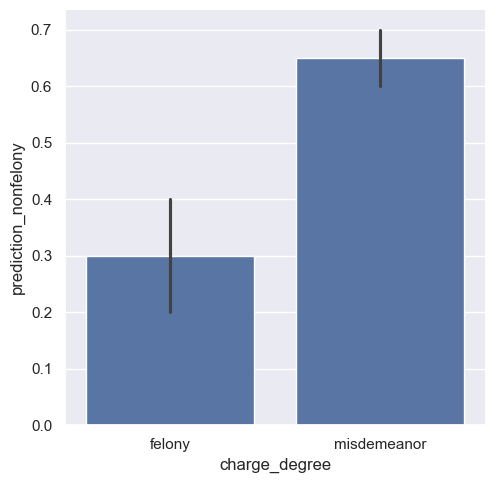
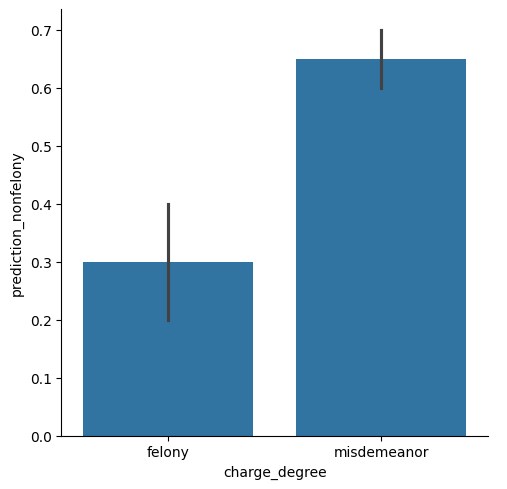
debug

diff --git a/src/part1_etl.py b/src/part1_etl.py
@@ -6,59 +6,80 @@ PART 1: ETL
 
 import pandas as pd
 
-def load_data():
-    # Load the datasets
-    pred_universe = pd.read_csv('./data/pred_universe.csv')
-    charge_counts = pd.read_csv('./data/charge_counts.csv')
-    charge_counts_by_offense = pd.read_csv('./data/charge_counts_by_offense.csv')
-    
-    # Print DataFrame columns and sample data
-    print("Columns in pred_universe:", pred_universe.columns)
-    print("Sample data from pred_universe:")
-    print(pred_universe.head())
-    
-    print("Columns in charge_counts:", charge_counts.columns)
-    print("Sample data from charge_counts:")
-    print(charge_counts.head())
-    
-    print("Columns in charge_counts_by_offense:", charge_counts_by_offense.columns)
-    print("Sample data from charge_counts_by_offense:")
-    print(charge_counts_by_offense.head())
-    
-    return pred_universe, charge_counts, charge_counts_by_offense
+def extract_transform():
+    try:
+        # Load the datasets
+        pred_universe = pd.read_csv('./data/pred_universe.csv')
+        charge_counts = pd.read_csv('./data/charge_counts.csv')
+        charge_counts_by_offense = pd.read_csv('./data/charge_counts_by_offense.csv')
+        
+        # Print DataFrame columns and sample data for debugging
+        print("Columns in pred_universe:", pred_universe.columns)
+        print("Sample data from pred_universe:")
+        print(pred_universe.head())
+        
+        print("Columns in charge_counts:", charge_counts.columns)
+        print("Sample data from charge_counts:")
+        print(charge_counts.head())
+        
+        print("Columns in charge_counts_by_offense:", charge_counts_by_offense.columns)
+        print("Sample data from charge_counts_by_offense:")
+        print(charge_counts_by_offense.head())
 
-def process_data(pred_universe, charge_counts, charge_counts_by_offense):
-    # Example processing: Check the columns to ensure data is as expected
-    if 'arrest_id' not in pred_universe.columns:
-        raise ValueError("The 'arrest_id' column is missing in pred_universe.")
-    
-    # Since charge_counts and charge_counts_by_offense do not have 'arrest_id',
-    # you cannot merge them with pred_universe. You might need different processing.
-    
-    # If merging is necessary and you have a common column, adjust accordingly.
-    # For demonstration, we'll just return the DataFrames for now.
-    
-    return charge_counts, charge_counts_by_offense
+        # Return the DataFrames
+        return charge_counts, pred_universe, charge_counts_by_offense
 
-def save_data(charge_counts, charge_counts_by_offense):
-    # Save processed DataFrames if needed
-    charge_counts.to_csv('./data/processed/charge_counts_processed.csv', index=False)
-    charge_counts_by_offense.to_csv('./data/processed/charge_counts_by_offense_processed.csv', index=False)
+    except FileNotFoundError as e:
+        print(f"Error: {e}. Please check the file paths and names.")
+        return None, None, None
+    except Exception as e:
+        print(f"An error occurred: {e}")
+        return None, None, None
+
+def create_felony_charge():
+    try:
+        # Assuming the function to create felony charge DataFrame
+        # This is an example and should be replaced with actual logic
+        felony_charge = pd.DataFrame({
+            'arrest_id': [1, 2, 3, 4],
+            'felony': [True, False, True, False]
+        })
+        
+        print("Columns in felony_charge:", felony_charge.columns)
+        print("Sample data from felony_charge:")
+        print(felony_charge.head())
+        
+        return felony_charge
+    except Exception as e:
+        print(f"An error occurred in create_felony_charge: {e}")
+        return None
+
+def merge_felony_pred_universe(felony_charge, pred_universe):
+    try:
+        # Merge the felony_charge DataFrame with pred_universe DataFrame
+        merged_data = pd.merge(felony_charge, pred_universe, on='arrest_id', how='inner')
+        
+        print("Columns in merged_data:", merged_data.columns)
+        print("Sample data from merged_data:")
+        print(merged_data.head())
+        
+        return merged_data
+    except Exception as e:
+        print(f"An error occurred in merge_felony_pred_universe: {e}")
+        return None
 
 def main():
-    # Load the data
-    pred_universe, charge_counts, charge_counts_by_offense = load_data()
-    
-    # Process the data
-    charge_counts, charge_counts_by_offense = process_data(pred_universe, charge_counts, charge_counts_by_offense)
-    
-    # Save the processed data
-    save_data(charge_counts, charge_counts_by_offense)
-    
-    print("Data processing complete. Check the 'processed' directory for output files.")
+    # Load and print data
+    charge_counts, pred_universe, charge_counts_by_offense = extract_transform()
+    # Create felony charge DataFrame
+    felony_charge = create_felony_charge()
+    # Merge dataframes
+    merged_data = merge_felony_pred_universe(felony_charge, pred_universe)
 
 if __name__ == "__main__":
     main()
+
+
 
 
 

diff --git a/main.py b/main.py
@@ -4,35 +4,70 @@
 - Run main.py before you start
 '''
 
-import os
-import pandas as pd
+
 import src.part1_etl as part1
 import src.part2_plot_examples as part2
 import src.part3_bar_hist as part3
 import src.part4_catplot as part4
 import src.part5_scatter as part5
-from src.part2_plot_examples import barplots, cat_plots, histograms, scatterplot
+import importlib
+
+# Reloading modules
+importlib.reload(part1)
+importlib.reload(part2)
+importlib.reload(part3)
+importlib.reload(part4)
+importlib.reload(part5)
 
 def main():
-    # Load data
-    charge_counts = pd.read_csv('data/charge_counts.csv')
-    charge_counts_by_offense = pd.read_csv('data/charge_counts_by_offense.csv')
-    pred_universe = pd.read_csv('data/pred_universe.csv')
+    print("Running main.py")
+    # Load and process the data
+    charge_counts, pred_universe, charge_counts_by_offense = part1.extract_transform()
 
-    # Print column names to debug
+    # Merging data
+    felony_charge = part1.create_felony_charge()
+    merged_data = part1.merge_felony_pred_universe(felony_charge, pred_universe)
+
+    # Debugging: Print DataFrames to verify
     print("Columns in pred_universe:", pred_universe.columns)
+    print("Sample data from pred_universe:")
+    print(pred_universe.head())
 
-    # Apply seaborn settings
-    part2.seaborn_settings()
+    print("Columns in charge_counts:", charge_counts.columns)
+    print("Sample data from charge_counts:")
+    print(charge_counts.head())
 
-    # Generate plots
-    part2.barplots(charge_counts, charge_counts_by_offense)
+    print("Columns in charge_counts_by_offense:", charge_counts_by_offense.columns)
+    print("Sample data from charge_counts_by_offense:")
+    print(charge_counts_by_offense.head())
+
+    print("Columns in felony_charge:", felony_charge.columns)
+    print("Sample data from felony_charge:")
+    print(felony_charge.head())
+
+    print("Columns in merged_data:", merged_data.columns)
+    print("Sample data from merged_data:")
+    print(merged_data.head())
+
+    # Part 2: Generate categorical plots
     part2.cat_plots(charge_counts, pred_universe)
-    part2.histograms(pred_universe)
-    part2.scatterplot(pred_universe)
+    
+    # Part 3: Generate bar and histogram plots
+    part3.part3_bar_plots(pred_universe)  # Updated function name
+    part3.part3_histograms(pred_universe)  # Updated function name
+
+    # Part 4: Generate additional categorical plots
+    part4.catplot_plot(pred_universe)
+    
+    # Part 5: Generate scatter plots
+    part5.scatterplot(pred_universe)
 
 if __name__ == "__main__":
     main()
+
+
+
+
 
 
 

diff --git a/src/part3_bar_hist.py b/src/part3_bar_hist.py
@@ -24,10 +24,12 @@ def part3_bar_plots(pred_universe):
     else:
         raise ValueError("Required columns are not present in the DataFrame")
 
+
+
 def part3_histograms(pred_universe):
     """
     Create histograms for Part 3 of the project.
-    
+
     Arguments:
     - pred_universe: DataFrame containing the prediction-related data
     """
@@ -35,11 +37,22 @@ def part3_histograms(pred_universe):
     print(pred_universe.head())
     print(pred_universe.columns)
     
-    # Plot histogram of 'age_at_arrest'
+    # Plot histogram of 'prediction_felony'
     plt.figure(figsize=(10, 6))
-    sns.histplot(pred_universe['age_at_arrest'])
-    plt.title('Histogram of Age at Arrest')
-    plt.savefig('./data/part3_plots/histogram_age_at_arrest.png', bbox_inches='tight')
+    sns.histplot(pred_universe['prediction_felony'], bins=10, kde=True)
+    plt.title('Histogram of Prediction Felony')
+    plt.xlabel('Prediction Felony')
+    plt.ylabel('Frequency')
+    plt.savefig('./data/part3_plots/histogram_prediction_felony.png', bbox_inches='tight')
+    plt.close()
+
+    # Plot histogram of 'prediction_nonfelony'
+    plt.figure(figsize=(10, 6))
+    sns.histplot(pred_universe['prediction_nonfelony'], bins=10, kde=True)
+    plt.title('Histogram of Prediction Non-Felony')
+    plt.xlabel('Prediction Non-Felony')
+    plt.ylabel('Frequency')
+    plt.savefig('./data/part3_plots/histogram_prediction_nonfelony.png', bbox_inches='tight')
     plt.close()
 
 
